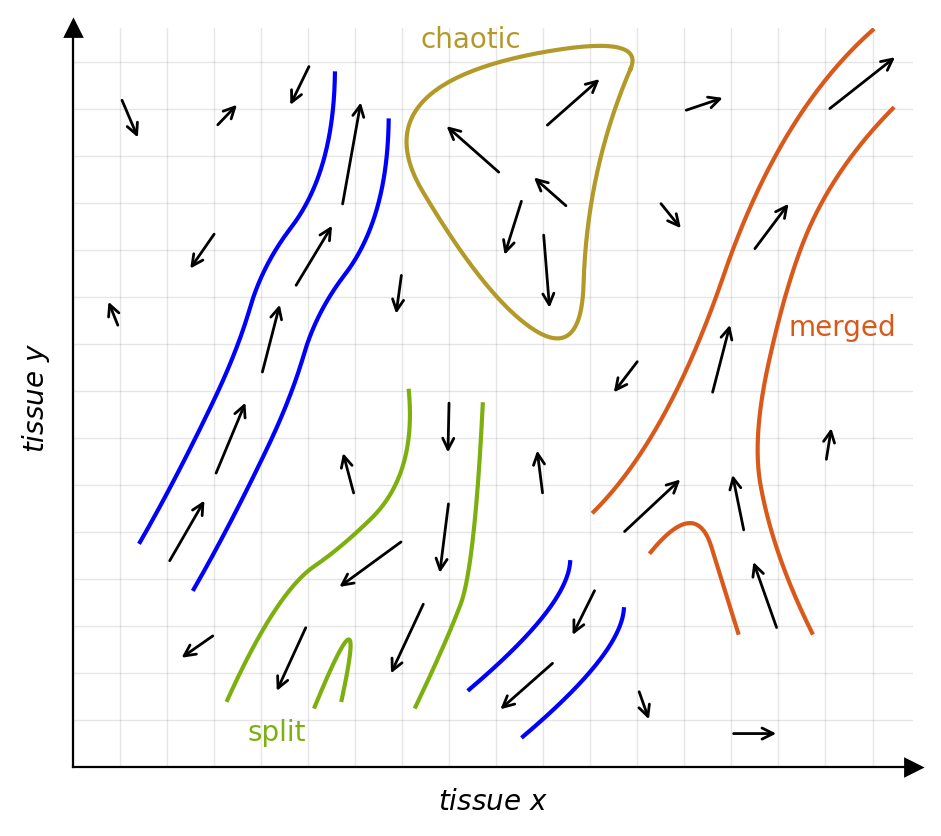
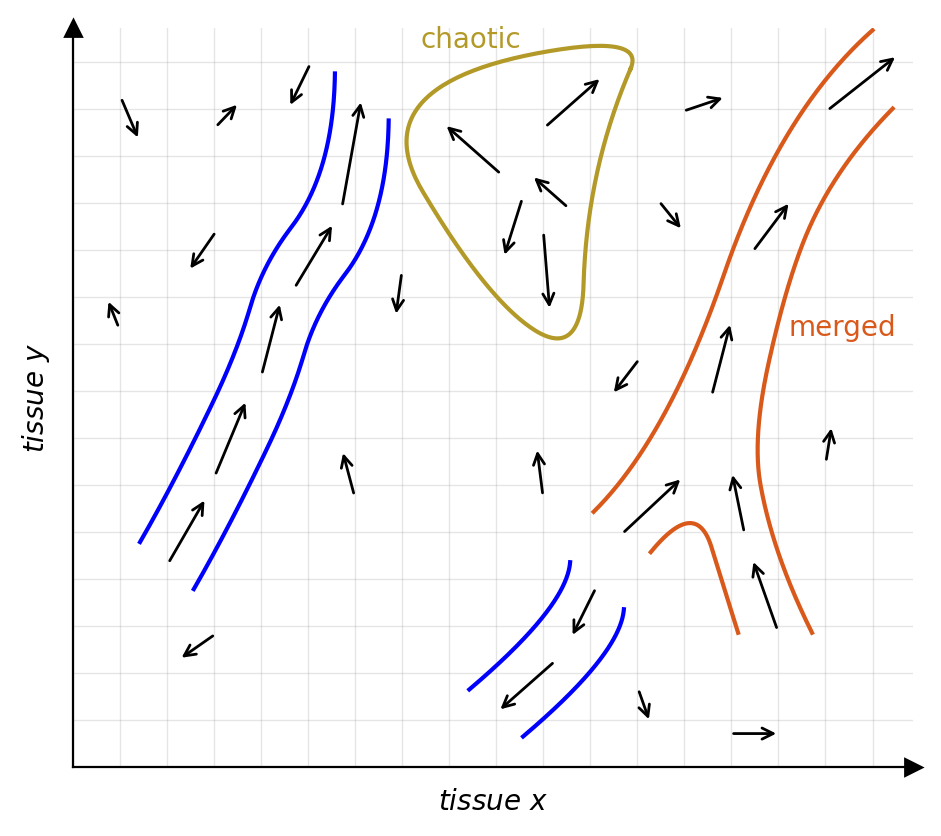
fig 1D: removed split

diff --git a/figures/figure_1d.py b/figures/figure_1d.py
@@ -7,7 +7,7 @@ plt.rcParams.update({"figure.dpi": 200})
 
 
 def main():
-    plot_slide_4()
+    plot_1d()
     plt.savefig(argv[0].rsplit(".", 1)[0] + ".png", bbox_inches='tight')
 
 
@@ -34,7 +34,7 @@ def draw_smooth_line(ax, points, k=2, periodic=False, label="", label_move_rel=(
 
 
 # refers to plot: https://docs.google.com/presentation/d/1T9e2uZamu__GOxcbz7fM81QUgAlvKp5JjUTwnGWbz3w/edit?slide=id.g349a373bb74_0_11#slide=id.g349a373bb74_0_11
-def plot_slide_4():
+def plot_1d():
     fig, ax = plt.subplots()
     ax.set_xlim(0, 125)
     ax.set_ylim(0, 110)
@@ -85,7 +85,7 @@ def plot_slide_4():
         )
 
     # first from left
-    def first_flux(color="blue"):
+    def left_blue(color="blue"):
         # Define the arrows
         arrows = (
             arrow(14, 30, 20),
@@ -105,31 +105,8 @@ def plot_slide_4():
         draw_smooth_line(ax, arrow_xy, k=2, color=color)
         return arrows
 
-    # second from left
-    def second_flux(color="blue"):
-        # Define the arrows
-        begin_arm = (
-            arrow(56, 55, 55.8, -1, length=9),
-        )
-        right_split = (
-            arrow(52.5, 25, 47, -1, length=13),
-            arrow(56, 40, 54.5, -1),
-        )
-        left_split = (
-            arrow(49.5, 34, 39, -1, length=13),
-            arrow(35, 21.5, 30, -1),
-        )
-
-        # left
-        draw_smooth_line(ax, [(50, 56), (48, 42), (40, 33), (32, 26), (23, 10)], k=2, color=color)
-        # right
-        draw_smooth_line(ax, [(61, 54), (59, 30), (56, 20), (51, 9)], k=2, color=color)
-        # bottom
-        draw_smooth_line(ax, [(36, 9), (41, 19), (40, 10)], k=2, color=color, label="split", label_move_rel=(-15, -15))
-        return *begin_arm, *right_split, *left_split
-
-    # third from left, the one below the circle with two arrows
-    def third_flux(color="blue"):
+    # second from left, the one below the circle with two arrows
+    def right_blue(color="blue"):
         arrows = (
             arrow(72, 16, 63, -1),
             arrow(78, 27, 74, -1, length=9)
@@ -148,7 +125,7 @@ def plot_slide_4():
         return arrows
 
     # the circle
-    def fourth_flux(color="blue"):
+    def chaotic(color="blue"):
         arrows = (
             # upper
             arrow(70, 95, 79),
@@ -179,7 +156,7 @@ def plot_slide_4():
         return arrows
 
     # the last one, first from right
-    def fifth_flux(color="blue"):
+    def merged(color="blue"):
         # Define the arrows
         left_arm = (
             arrow(81.5, 34.5, 91, length=13),
@@ -207,11 +184,10 @@ def plot_slide_4():
 
     arrows = (
         *standalone_arrows(),
-        *first_flux(),
-        *second_flux("#7DB00F"),
-        *third_flux(),
-        *fourth_flux("#B39A28"),
-        *fifth_flux("#D9591B")
+        *left_blue(),
+        *right_blue(),
+        *chaotic("#B39A28"),
+        *merged("#D9591B")
     )
     for start, end in arrows:
         ax.annotate("", xy=end, xytext=start, arrowprops=dict(arrowstyle='->'))